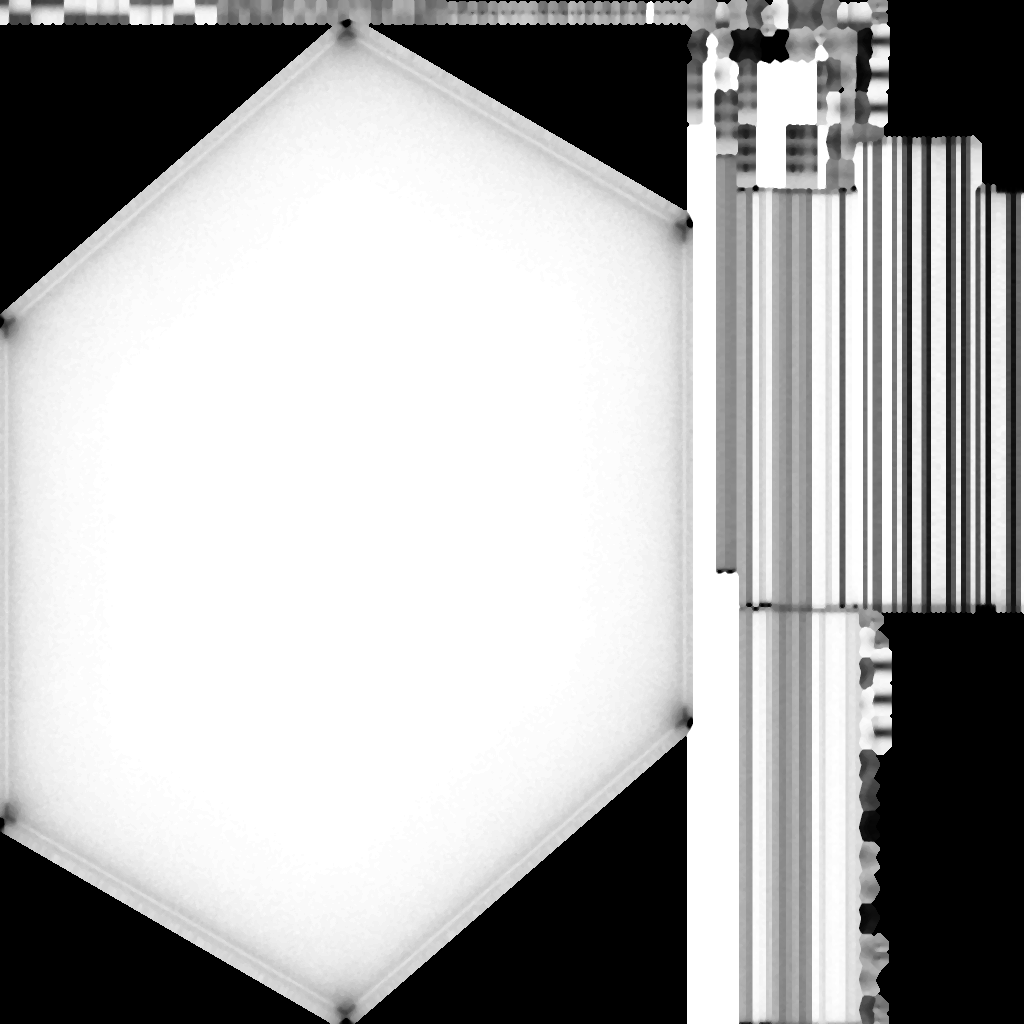
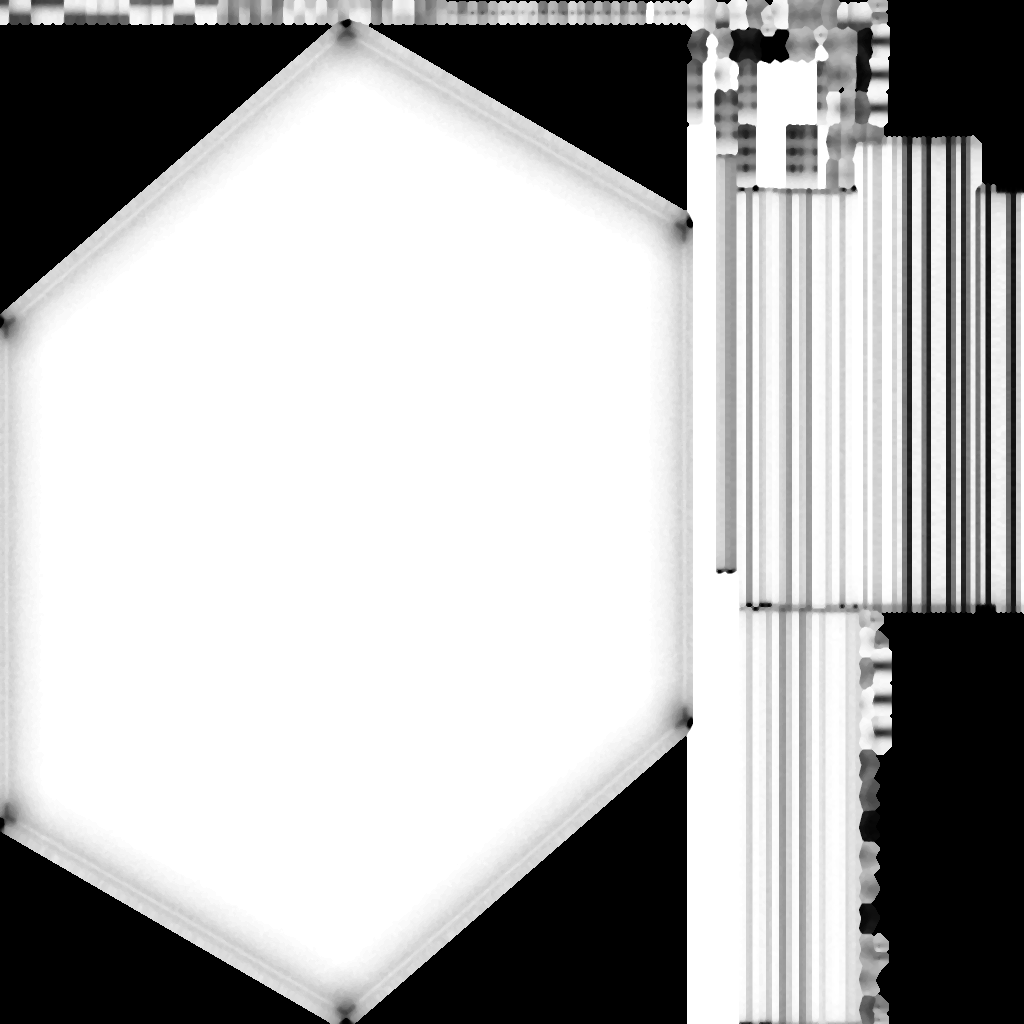
Softer arena AO: distance 1 unit, less darkening of the ambient light and sun
With the coliseum flat-shaded, the AO distance of 3 units made small recesses such as the window jambs
almost black (a recess about half a unit deep counted as fully occluded) and darkened the edge-on end
face of the top wall into a visible line. AO distance 1.0, aoAmbient 0.8, aoDirect 0.3.

diff --git a/scripts/blender/arena_ao.py b/scripts/blender/arena_ao.py
@@ -77,7 +77,7 @@ def build():
         log("imported %s from %s (%d vertices)" % (name, source, len(ob.data.vertices)))
 
     scene = bpy.context.scene
-    scene["tumbu_ao_distance"] = 3.0
+    scene["tumbu_ao_distance"] = 1.0
     scene["tumbu_ao_samples"] = 1024
     os.makedirs(ART, exist_ok=True)
     bpy.ops.wm.save_as_mainfile(filepath=BLEND)
@@ -233,7 +233,7 @@ def main():
     scene.cycles.samples = int(scene.get("tumbu_ao_samples", 1024))
     if scene.world is None:
         scene.world = bpy.data.worlds.new("World")
-    scene.world.light_settings.distance = float(scene.get("tumbu_ao_distance", 3.0))
+    scene.world.light_settings.distance = float(scene.get("tumbu_ao_distance", 1.0))
     log("AO distance %.2f, %d samples" % (scene.world.light_settings.distance, scene.cycles.samples))
 
     export_col = bpy.data.collections.get("Export")
